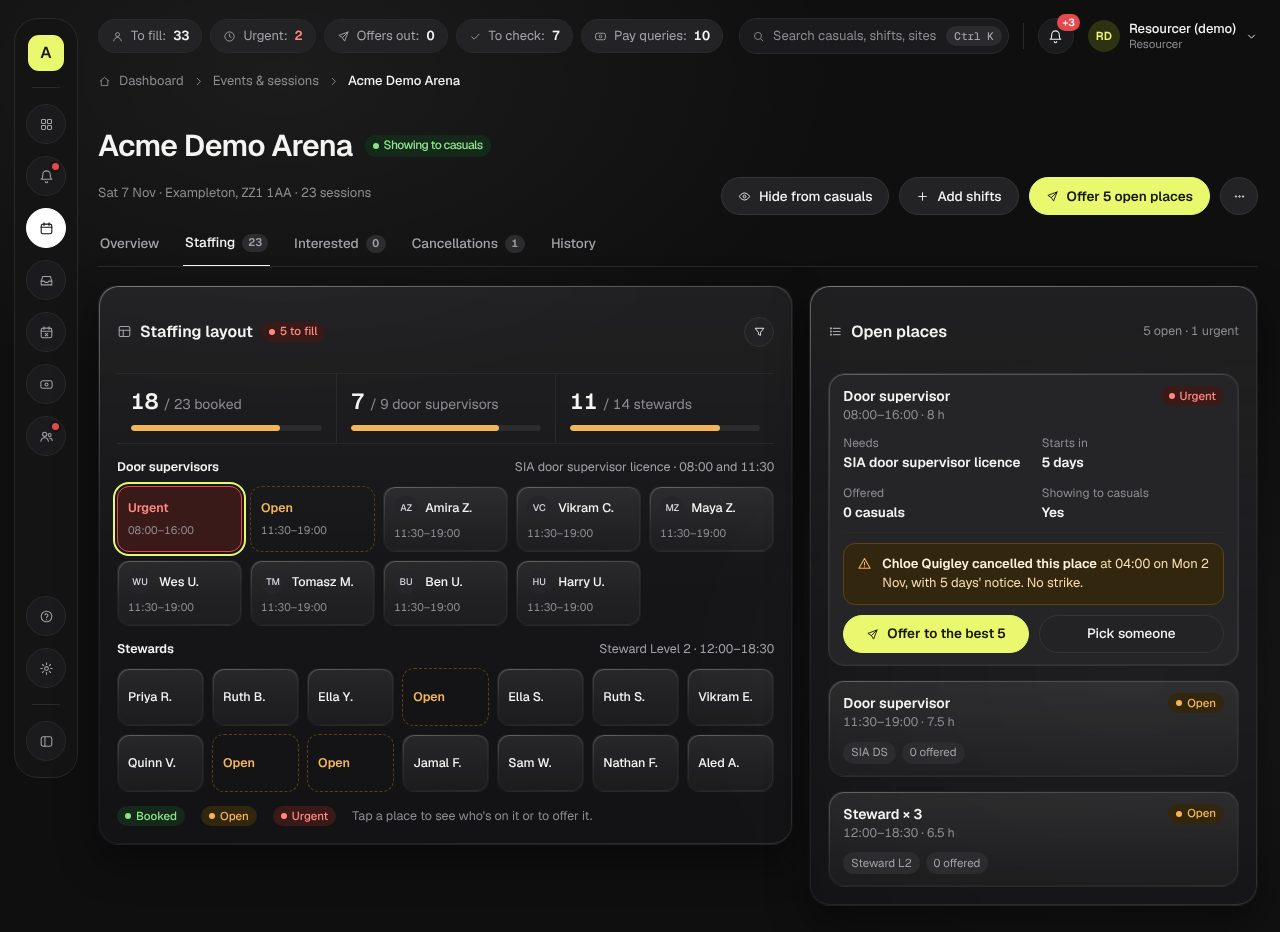
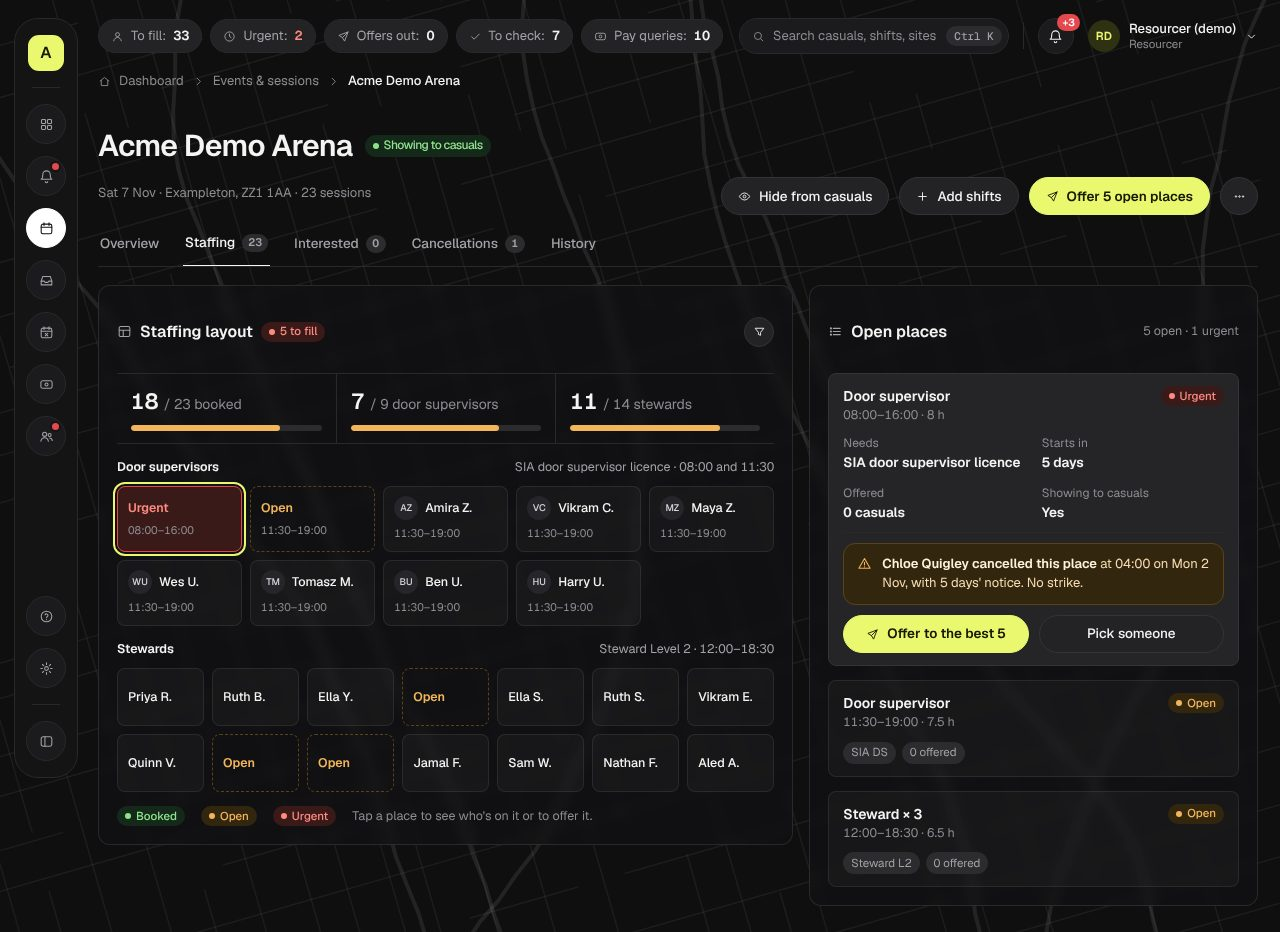
Round 8: glass that's translucent and sharp, not glossy
Dylan: "the use of highlights is making it seem tackier by glass i mean
translucent at the moment its reading thick and bubbly but by glass i mean
translucent and sharp". The gloss comes out (no bright corner edge, sheen,
inner light or resting shadow). Panels and cards are see-through over a
faint street map drawn behind every page, with a light blur, one even 1px
hairline and tighter corners (12px panels, 8px cards); solid again under
"reduce transparency". Pictures re-rendered, both mock-up pages
republished, the words updated. Docs and mock-ups only.

Claude-Session: https://claude.ai/code/session_01V8xx5DqVfkh7YuuDFiAuJu

Changed region(s): [[0.8125, 0.7157, 0.9062, 0.7468]]

diff --git a/docs/mockups/round-8/round-8.html b/docs/mockups/round-8/round-8.html
@@ -253,29 +253,25 @@ td:first-child { font-weight: 600; white-space: nowrap; }
 @container (min-width: 601px) { .f8 .only-phone { display: none !important; } }
 .f8 .back { color: var(--muted); font-size: 13px; display: flex; align-items: center; gap: 4px; }
 
-/* Dark glass on the sections and the cards inside them (Dylan, 2026-11-02: "can we make the sections
-   these bits ... a bit more glass looking"). Glass on a dark ground reads through three things: a
-   bright edge where light catches the top corner, a soft sheen from top to bottom, and something
-   behind it to blur. All neutral: no colour wash. */
-.f8 { background-color: var(--g0); background-image: radial-gradient(900px 520px at 22% 8%, rgb(255 255 255 / 0.055), transparent 62%), radial-gradient(760px 560px at 88% 72%, rgb(255 255 255 / 0.04), transparent 60%); }
-.f8 .panel, .f8 .kpis, .f8 .sheet:not(.side) { position: relative; }
-.f8 .panel, .f8 .kpis, .f8 .sheet { border-color: transparent; background-color: transparent; background-image: linear-gradient(180deg, rgb(255 255 255 / 0.075), rgb(255 255 255 / 0.028) 55%, rgb(255 255 255 / 0.02)); -webkit-backdrop-filter: blur(24px) saturate(1.6); backdrop-filter: blur(24px) saturate(1.6); box-shadow: inset 0 1px 0 rgb(255 255 255 / 0.14), 0 16px 40px rgb(0 0 0 / 0.42); }
-.f8 .sheet.side { background-color: rgb(24 24 27 / 0.72); }
-.f8 .card { border-color: transparent; background-color: rgb(28 28 31 / 0.55); background-image: linear-gradient(180deg, rgb(255 255 255 / 0.09), rgb(255 255 255 / 0.02) 60%); -webkit-backdrop-filter: blur(16px) saturate(1.6); backdrop-filter: blur(16px) saturate(1.6); box-shadow: inset 0 1px 0 rgb(255 255 255 / 0.16), 0 18px 50px rgb(0 0 0 / 0.5); }
-.f8 .li:not(.hot), .f8 .tile, .f8 .slot:not(.open):not(.urg), .f8 .oc, .f8 .setrow, .f8 .pick:not(.on) { position: relative; border-color: transparent; background-color: transparent; background-image: linear-gradient(180deg, rgb(255 255 255 / 0.085), rgb(255 255 255 / 0.035)); box-shadow: inset 0 1px 0 rgb(255 255 255 / 0.1); }
-.f8 .panel::before, .f8 .kpis::before, .f8 .sheet::before, .f8 .card::before,
-.f8 .li:not(.hot)::before, .f8 .tile::before, .f8 .slot:not(.open):not(.urg)::before, .f8 .oc::before, .f8 .setrow::before, .f8 .pick:not(.on)::before {
-  content: ""; position: absolute; inset: 0; border-radius: inherit; padding: 1px; pointer-events: none;
-  background: linear-gradient(160deg, rgb(255 255 255 / 0.32), rgb(255 255 255 / 0.08) 28%, rgb(255 255 255 / 0.03) 62%, rgb(255 255 255 / 0.12));
-  -webkit-mask: linear-gradient(#000 0 0) content-box, linear-gradient(#000 0 0); -webkit-mask-composite: xor; mask: linear-gradient(#000 0 0) content-box exclude, linear-gradient(#000 0 0);
-}
-.f8 .li:not(.hot)::before, .f8 .tile::before, .f8 .slot:not(.open):not(.urg)::before, .f8 .oc::before, .f8 .setrow::before, .f8 .pick:not(.on)::before { background: linear-gradient(160deg, rgb(255 255 255 / 0.2), rgb(255 255 255 / 0.05) 35%, rgb(255 255 255 / 0.03) 70%, rgb(255 255 255 / 0.08)); }
-.f8 .dt { box-shadow: inset 0 1px 0 rgb(255 255 255 / 0.08); }
+/* Glass, translucent and sharp (Dylan, 2026-11-02: "by glass i mean translucent and sharp", after the
+   first try read "thick and bubbly"). A see-through fill and a real blur over a faint street map that
+   runs behind the whole page; one even 1px hairline; tighter corners; no gloss, sheen, inner light or
+   resting shadow. Only what floats (the map's session card, panels that slide in) keeps a shadow. */
+.f8 { background-color: var(--g0); background-image: none; }
+.f8 > canvas.backdrop { position: absolute; inset: 0; width: 100%; height: 100%; z-index: 0; pointer-events: none; }
+.f8 > :not(canvas) { position: relative; z-index: 1; }
+.f8 .panel, .f8 .kpis, .f8 .sheet { border: 1px solid rgb(255 255 255 / 0.1); border-radius: 12px; background: rgb(22 22 24 / 0.28); -webkit-backdrop-filter: blur(6px) saturate(1.15); backdrop-filter: blur(6px) saturate(1.15); box-shadow: none; }
+.f8 .sheet.side { background: rgb(18 18 20 / 0.72); border-radius: 12px; box-shadow: -24px 0 60px rgb(0 0 0 / 0.5); }
+.f8 .card { border: 1px solid rgb(255 255 255 / 0.12); border-radius: 12px; background: rgb(18 18 20 / 0.5); -webkit-backdrop-filter: blur(8px) saturate(1.15); backdrop-filter: blur(8px) saturate(1.15); box-shadow: 0 18px 50px rgb(0 0 0 / 0.5); }
+.f8 .li:not(.hot), .f8 .tile, .f8 .slot:not(.open):not(.urg), .f8 .oc, .f8 .setrow, .f8 .pick:not(.on) { border: 1px solid rgb(255 255 255 / 0.08); border-radius: 8px; background: rgb(255 255 255 / 0.03); box-shadow: none; }
+.f8 .li.hot { border-radius: 8px; }
+.f8 .slot.open, .f8 .slot.urg, .f8 .pick.on { border-radius: 8px; }
+.f8 .map { border-radius: 12px; border-color: rgb(255 255 255 / 0.1); }
+.f8 .dt { box-shadow: none; border-radius: 8px; }
 @media (prefers-reduced-transparency: reduce) {
-  .f8 { background-image: none; }
-  .f8 .panel, .f8 .kpis, .f8 .sheet, .f8 .card { -webkit-backdrop-filter: none; backdrop-filter: none; background: #1b1b1d; border-color: var(--edge); }
-  .f8 .li:not(.hot), .f8 .tile, .f8 .slot:not(.open):not(.urg), .f8 .oc, .f8 .setrow, .f8 .pick:not(.on) { background: #232325; border-color: var(--edge); }
-  .f8 .panel::before, .f8 .kpis::before, .f8 .sheet::before, .f8 .card::before, .f8 .li::before, .f8 .tile::before, .f8 .slot::before, .f8 .oc::before, .f8 .setrow::before, .f8 .pick::before { display: none; }
+  .f8 > canvas.backdrop { display: none; }
+  .f8 .panel, .f8 .kpis, .f8 .sheet, .f8 .card { -webkit-backdrop-filter: none; backdrop-filter: none; background: #1b1b1d; }
+  .f8 .li:not(.hot), .f8 .tile, .f8 .slot:not(.open):not(.urg), .f8 .oc, .f8 .setrow, .f8 .pick:not(.on) { background: #232325; }
 }
 </style>
 
@@ -303,7 +299,7 @@ td:first-child { font-weight: 600; white-space: nowrap; }
         <thead><tr><th>What</th><th>Haulix</th><th>ShiftDesk now</th><th>Round 8</th></tr></thead>
         <tbody>
           <tr><td>Ground</td><td>Near-black, neutral, flat (#141414)</td><td class="">Pastel wash in light; blue, purple and teal glows in dark</td><td>Neutral charcoal, flat. No glows, no wash</td></tr>
-          <tr><td>Surfaces</td><td>Panels one shade lighter, a fine edge, no blur</td><td>Frosted glass everywhere: blur, lit rims, drop shadows</td><td>Dark glass on panels and the cards in them: a see-through fill, a soft blur, light on the top edge. No colour wash. Deeper shadows only on what floats</td></tr>
+          <tr><td>Surfaces</td><td>Panels one shade lighter, a fine edge, no blur</td><td>Frosted glass everywhere: blur, lit rims, drop shadows</td><td>Translucent, sharp glass on panels and the cards in them: see-through over a faint street map, a light blur, one 1px hairline, tight corners. No gloss or colour wash; shadows only on what floats</td></tr>
           <tr><td>Colour</td><td>One pale lime: the main button, switches, the logo, the selected truck</td><td>Firm blue, link blue, coloured leaf icons, red, amber and green all at once</td><td>One hi-vis yellow, from the stewards' vests: the main button, switches, what's selected. Red, amber, green only on status</td></tr>
           <tr><td>The big picture</td><td>A live map of the fleet; the truck's cargo slot by slot</td><td>A bar chart of places to fill</td><td>A map of your venues with the places to fill at each; an event's staffing laid out place by place</td></tr>
           <tr><td>Detail card</td><td>ID, status, route progress, gauges, a warning, two actions</td><td>Date tile, two number tiles, a warning, two buttons</td><td>The same shape for a session: time, booked bar, gauge, who can take it, a warning, Offer</td></tr>
@@ -341,7 +337,7 @@ td:first-child { font-weight: 600; white-space: nowrap; }
   <section aria-labelledby="h-dec">
     <h2 id="h-dec">Your decisions</h2>
     <div class="dec read">
-      <div class="dq"><h3>1. Move away from glass?</h3><p>You approved round 7 (Liquid Glass) on 26 Oct. Round 8 replaces its pastel wash and frosted white glass in the office with Haulix's charcoal, keeping dark glass on the panels and cards (your ask on 2 Nov).</p><p class="rec"><b>Recommended:</b> yes for the office. The casual app keeps its look for now: it's used outdoors on phones, where light and clear works better.</p></div>
+      <div class="dq"><h3>1. Move away from glass?</h3><p>You approved round 7 (Liquid Glass) on 26 Oct. Round 8 replaces its pastel wash and frosted white glass in the office with Haulix's charcoal, keeping translucent, sharp glass on the panels and cards (your ask on 2 Nov).</p><p class="rec"><b>Recommended:</b> yes for the office. The casual app keeps its look for now: it's used outdoors on phones, where light and clear works better.</p></div>
       <div class="dq"><h3>2. Dark by default?</h3><p>Haulix is dark only.</p><p class="rec"><b>Recommended:</b> dark by default for the office, with a light version built on the same flat rules for anyone who prefers it.</p></div>
       <div class="dq"><h3>3. The accent: hi-vis yellow or the firm's own colour?</h3><p>Haulix uses one pale lime. Hi-vis yellow does the same job and comes from event security itself.</p><p class="rec"><b>Recommended:</b> hi-vis in the office; the firm's colour stays on its mark and in the casual app.</p></div>
       <div class="dq"><h3>4. The venue map needs a map service</h3><p>Venues already have postcodes, and postcodes.io already turns them into coordinates. Drawing streets needs map tiles.</p><p class="rec"><b>Recommended:</b> MapLibre (open source) with a dark style from a UK or EU tile host, or a self-hosted map file. A new supplier, so your call; without it, the dashboard falls back to the cover grid by venue and day.</p></div>
@@ -540,6 +536,24 @@ td:first-child { font-weight: 600; white-space: nowrap; }
     c.strokeStyle = '#2a2a2d'; c.lineWidth = 6; c.beginPath(); c.ellipse(w * 0.6, h * 0.5, w * 0.36, h * 0.46, -0.1, 0, Math.PI * 2); c.stroke();
   }
 
+
+  // The faint streets behind every page: the same drawn town as the venue map, a few lines only, so the
+  // glass has something to see through. Drawn, not a real place.
+  function drawBackdrop(frame) {
+    var cv = document.createElement('canvas'); cv.className = 'backdrop'; cv.setAttribute('aria-hidden', 'true');
+    frame.insertBefore(cv, frame.firstChild);
+    var w = frame.offsetWidth, h = frame.offsetHeight, dpr = Math.min(2, window.devicePixelRatio || 1);
+    cv.width = w * dpr; cv.height = h * dpr; var c = cv.getContext('2d'); c.scale(dpr, dpr);
+    var s = 11; function rnd() { s = (s * 16807) % 2147483647; return (s - 1) / 2147483646; }
+    c.save(); c.translate(w / 2, h / 2); c.rotate(-0.28);
+    var R = Math.max(w, h), step = 42;
+    c.strokeStyle = 'rgba(255,255,255,0.06)'; c.lineWidth = 1.5;
+    for (var x = -R; x < R; x += step * (0.8 + rnd() * 0.7)) { c.beginPath(); var y = -R; c.moveTo(x, y); while (y < R) { y += step * (1 + rnd() * 3); if (rnd() < 0.2) c.moveTo(x, y); else c.lineTo(x, y); } c.stroke(); }
+    for (var yy = -R; yy < R; yy += step * (0.8 + rnd() * 0.7)) { c.beginPath(); var xx = -R; c.moveTo(xx, yy); while (xx < R) { xx += step * (1 + rnd() * 3); if (rnd() < 0.2) c.moveTo(xx, yy); else c.lineTo(xx, yy); } c.stroke(); }
+    c.restore();
+    c.strokeStyle = 'rgba(255,255,255,0.085)'; c.lineWidth = 4; c.lineCap = 'round'; c.lineJoin = 'round';
+    for (var k = 0; k < 6; k++) { c.beginPath(); var px = rnd() * w, py = k % 2 ? -10 : h + 10, ang = (k % 2 ? 1 : -1) * (Math.PI / 2) + (rnd() - 0.5) * 0.9; c.moveTo(px, py); for (var n = 0; n < 60; n++) { ang += (rnd() - 0.5) * 0.3; px += Math.cos(ang) * 30; py += Math.sin(ang) * 30; c.lineTo(px, py); } c.stroke(); }
+  }
   // ---------- stages ----------
   function setup(id, render) {
     var el = document.getElementById(id), stage = el.querySelector('.stage'), scaler = el.querySelector('.scaler');
@@ -548,6 +562,7 @@ td:first-child { font-weight: 600; white-space: nowrap; }
       el.querySelectorAll('.seg button').forEach(function (b) { b.setAttribute('aria-pressed', b.dataset.size === size ? 'true' : 'false'); });
       fit();
       scaler.querySelectorAll('canvas').forEach(drawMap);
+      drawBackdrop(scaler.querySelector('.f8'));
     }
     function fit() {
       var f = scaler.firstElementChild; if (!f) return;

diff --git a/docs/mockups/round-8/screens.html b/docs/mockups/round-8/screens.html
@@ -237,29 +237,25 @@ body { margin: 0; background: #0c0c0d; }
 }
 
 
-/* Dark glass on the sections and the cards inside them (Dylan, 2026-11-02: "can we make the sections
-   these bits ... a bit more glass looking"). Glass on a dark ground reads through three things: a
-   bright edge where light catches the top corner, a soft sheen from top to bottom, and something
-   behind it to blur. All neutral: no colour wash. */
-.f8 { background-color: var(--g0); background-image: radial-gradient(900px 520px at 22% 8%, rgb(255 255 255 / 0.055), transparent 62%), radial-gradient(760px 560px at 88% 72%, rgb(255 255 255 / 0.04), transparent 60%); }
-.f8 .panel, .f8 .kpis, .f8 .sheet:not(.side) { position: relative; }
-.f8 .panel, .f8 .kpis, .f8 .sheet { border-color: transparent; background-color: transparent; background-image: linear-gradient(180deg, rgb(255 255 255 / 0.075), rgb(255 255 255 / 0.028) 55%, rgb(255 255 255 / 0.02)); -webkit-backdrop-filter: blur(24px) saturate(1.6); backdrop-filter: blur(24px) saturate(1.6); box-shadow: inset 0 1px 0 rgb(255 255 255 / 0.14), 0 16px 40px rgb(0 0 0 / 0.42); }
-.f8 .sheet.side { background-color: rgb(24 24 27 / 0.72); }
-.f8 .card { border-color: transparent; background-color: rgb(28 28 31 / 0.55); background-image: linear-gradient(180deg, rgb(255 255 255 / 0.09), rgb(255 255 255 / 0.02) 60%); -webkit-backdrop-filter: blur(16px) saturate(1.6); backdrop-filter: blur(16px) saturate(1.6); box-shadow: inset 0 1px 0 rgb(255 255 255 / 0.16), 0 18px 50px rgb(0 0 0 / 0.5); }
-.f8 .li:not(.hot), .f8 .tile, .f8 .slot:not(.open):not(.urg), .f8 .oc, .f8 .setrow, .f8 .pick:not(.on) { position: relative; border-color: transparent; background-color: transparent; background-image: linear-gradient(180deg, rgb(255 255 255 / 0.085), rgb(255 255 255 / 0.035)); box-shadow: inset 0 1px 0 rgb(255 255 255 / 0.1); }
-.f8 .panel::before, .f8 .kpis::before, .f8 .sheet::before, .f8 .card::before,
-.f8 .li:not(.hot)::before, .f8 .tile::before, .f8 .slot:not(.open):not(.urg)::before, .f8 .oc::before, .f8 .setrow::before, .f8 .pick:not(.on)::before {
-  content: ""; position: absolute; inset: 0; border-radius: inherit; padding: 1px; pointer-events: none;
-  background: linear-gradient(160deg, rgb(255 255 255 / 0.32), rgb(255 255 255 / 0.08) 28%, rgb(255 255 255 / 0.03) 62%, rgb(255 255 255 / 0.12));
-  -webkit-mask: linear-gradient(#000 0 0) content-box, linear-gradient(#000 0 0); -webkit-mask-composite: xor; mask: linear-gradient(#000 0 0) content-box exclude, linear-gradient(#000 0 0);
-}
-.f8 .li:not(.hot)::before, .f8 .tile::before, .f8 .slot:not(.open):not(.urg)::before, .f8 .oc::before, .f8 .setrow::before, .f8 .pick:not(.on)::before { background: linear-gradient(160deg, rgb(255 255 255 / 0.2), rgb(255 255 255 / 0.05) 35%, rgb(255 255 255 / 0.03) 70%, rgb(255 255 255 / 0.08)); }
-.f8 .dt { box-shadow: inset 0 1px 0 rgb(255 255 255 / 0.08); }
+/* Glass, translucent and sharp (Dylan, 2026-11-02: "by glass i mean translucent and sharp", after the
+   first try read "thick and bubbly"). A see-through fill and a real blur over a faint street map that
+   runs behind the whole page; one even 1px hairline; tighter corners; no gloss, sheen, inner light or
+   resting shadow. Only what floats (the map's session card, panels that slide in) keeps a shadow. */
+.f8 { background-color: var(--g0); background-image: none; }
+.f8 > canvas.backdrop { position: absolute; inset: 0; width: 100%; height: 100%; z-index: 0; pointer-events: none; }
+.f8 > :not(canvas) { position: relative; z-index: 1; }
+.f8 .panel, .f8 .kpis, .f8 .sheet { border: 1px solid rgb(255 255 255 / 0.1); border-radius: 12px; background: rgb(22 22 24 / 0.28); -webkit-backdrop-filter: blur(6px) saturate(1.15); backdrop-filter: blur(6px) saturate(1.15); box-shadow: none; }
+.f8 .sheet.side { background: rgb(18 18 20 / 0.72); border-radius: 12px; box-shadow: -24px 0 60px rgb(0 0 0 / 0.5); }
+.f8 .card { border: 1px solid rgb(255 255 255 / 0.12); border-radius: 12px; background: rgb(18 18 20 / 0.5); -webkit-backdrop-filter: blur(8px) saturate(1.15); backdrop-filter: blur(8px) saturate(1.15); box-shadow: 0 18px 50px rgb(0 0 0 / 0.5); }
+.f8 .li:not(.hot), .f8 .tile, .f8 .slot:not(.open):not(.urg), .f8 .oc, .f8 .setrow, .f8 .pick:not(.on) { border: 1px solid rgb(255 255 255 / 0.08); border-radius: 8px; background: rgb(255 255 255 / 0.03); box-shadow: none; }
+.f8 .li.hot { border-radius: 8px; }
+.f8 .slot.open, .f8 .slot.urg, .f8 .pick.on { border-radius: 8px; }
+.f8 .map { border-radius: 12px; border-color: rgb(255 255 255 / 0.1); }
+.f8 .dt { box-shadow: none; border-radius: 8px; }
 @media (prefers-reduced-transparency: reduce) {
-  .f8 { background-image: none; }
-  .f8 .panel, .f8 .kpis, .f8 .sheet, .f8 .card { -webkit-backdrop-filter: none; backdrop-filter: none; background: #1b1b1d; border-color: var(--edge); }
-  .f8 .li:not(.hot), .f8 .tile, .f8 .slot:not(.open):not(.urg), .f8 .oc, .f8 .setrow, .f8 .pick:not(.on) { background: #232325; border-color: var(--edge); }
-  .f8 .panel::before, .f8 .kpis::before, .f8 .sheet::before, .f8 .card::before, .f8 .li::before, .f8 .tile::before, .f8 .slot::before, .f8 .oc::before, .f8 .setrow::before, .f8 .pick::before { display: none; }
+  .f8 > canvas.backdrop { display: none; }
+  .f8 .panel, .f8 .kpis, .f8 .sheet, .f8 .card { -webkit-backdrop-filter: none; backdrop-filter: none; background: #1b1b1d; }
+  .f8 .li:not(.hot), .f8 .tile, .f8 .slot:not(.open):not(.urg), .f8 .oc, .f8 .setrow, .f8 .pick:not(.on) { background: #232325; }
 }
 </style></head><body><div id="out"></div><script>
 (function () {
@@ -574,11 +570,30 @@ body { margin: 0; background: #0c0c0d; }
     return '<div style="position:relative">' + dashboard(size) + '<div class="dim"></div>' + panel.replace('class="sheet"', 'class="sheet side"') + '</div>';
   }
 
+
+  // The faint streets behind every page: the same drawn town as the venue map, a few lines only, so the
+  // glass has something to see through. Drawn, not a real place.
+  function drawBackdrop(frame) {
+    var cv = document.createElement('canvas'); cv.className = 'backdrop'; cv.setAttribute('aria-hidden', 'true');
+    frame.insertBefore(cv, frame.firstChild);
+    var w = frame.offsetWidth, h = frame.offsetHeight, dpr = Math.min(2, window.devicePixelRatio || 1);
+    cv.width = w * dpr; cv.height = h * dpr; var c = cv.getContext('2d'); c.scale(dpr, dpr);
+    var s = 11; function rnd() { s = (s * 16807) % 2147483647; return (s - 1) / 2147483646; }
+    c.save(); c.translate(w / 2, h / 2); c.rotate(-0.28);
+    var R = Math.max(w, h), step = 42;
+    c.strokeStyle = 'rgba(255,255,255,0.06)'; c.lineWidth = 1.5;
+    for (var x = -R; x < R; x += step * (0.8 + rnd() * 0.7)) { c.beginPath(); var y = -R; c.moveTo(x, y); while (y < R) { y += step * (1 + rnd() * 3); if (rnd() < 0.2) c.moveTo(x, y); else c.lineTo(x, y); } c.stroke(); }
+    for (var yy = -R; yy < R; yy += step * (0.8 + rnd() * 0.7)) { c.beginPath(); var xx = -R; c.moveTo(xx, yy); while (xx < R) { xx += step * (1 + rnd() * 3); if (rnd() < 0.2) c.moveTo(xx, yy); else c.lineTo(xx, yy); } c.stroke(); }
+    c.restore();
+    c.strokeStyle = 'rgba(255,255,255,0.085)'; c.lineWidth = 4; c.lineCap = 'round'; c.lineJoin = 'round';
+    for (var k = 0; k < 6; k++) { c.beginPath(); var px = rnd() * w, py = k % 2 ? -10 : h + 10, ang = (k % 2 ? 1 : -1) * (Math.PI / 2) + (rnd() - 0.5) * 0.9; c.moveTo(px, py); for (var n = 0; n < 60; n++) { ang += (rnd() - 0.5) * 0.3; px += Math.cos(ang) * 30; py += Math.sin(ang) * 30; c.lineTo(px, py); } c.stroke(); }
+  }
   var SCREENS = { dashboard: dashboard, event: eventPage, casuals: casuals, cancellations: cancellations, session: session, updates: updates, offer: offer, customise: customise };
   var m = (location.hash || '').match(/^#(\w+)-(laptop|phone)$/);
   var name = m ? m[1] : 'dashboard', size = m ? m[2] : 'laptop';
   document.getElementById('out').innerHTML = '<div class="f8 ' + size + '">' + SCREENS[name](size) + '</div>';
   document.querySelectorAll('#out canvas').forEach(drawMap);
+  drawBackdrop(document.querySelector('#out .f8'));
   window.SCREEN_READY = true;
 })();
 </script></body></html>

diff --git a/docs/mockups/round-8/spec.html b/docs/mockups/round-8/spec.html
@@ -144,10 +144,10 @@ textarea.note::placeholder { color: #b89356; }
   var SPEC = [
     { id: 'look', title: 'The look, everywhere in the office', route: 'every office page', purpose: 'The system every screen below is built on. The casual app keeps its look.', shots: null, swatches: true, items: [
       ['sys-1', 'Dark by default in the office (decision 7). A light version on the same flat rules for anyone who prefers it; the light or dark button stays in the top bar.'],
-      ['sys-2', 'Neutral charcoal (page #141415) with dark glass on the panels and the cards inside them: a see-through fill, a soft blur of what\'s behind, light catching the top edge and a faint sheen (your ask on 2 Nov). No pastel wash and no coloured glow (decision 6).'],
+      ['sys-2', 'Glass that\'s translucent and sharp (your ask on 2 Nov): panels and the cards inside them are see-through over a faint street map that runs behind every page, with a light blur, one even 1px hairline edge and tighter corners (12px panels, 8px cards). No gloss, sheen or highlight, no pastel wash, no coloured glow (decision 6).'],
       ['sys-3', 'One accent, hi-vis yellow #e9f86f, on the main button, the switches and whatever is selected (decision 8). At most one hi-vis button per screen. The firm\'s own colour stays on its mark and in the casual app.'],
       ['sys-4', 'One status code on every page: Urgent red, Open amber, Booked green, Offered blue, Hidden grey. The same pill shape everywhere.'],
-      ['sys-5', 'Deeper shadows only on what floats: the map\'s session card, menus and panels that slide in. With "reduce transparency" switched on, the glass turns solid.'],
+      ['sys-5', 'No shadows on panels or cards at rest; only what floats (the map\'s session card, menus, panels that slide in) has one. With "reduce transparency" switched on, the glass turns solid and the street map goes.'],
       ['sys-6', 'Geist stays for all words and figures; page titles 30px; figures line up (tabular); references and IDs in Geist Mono.'],
       ['sys-7', 'The menu rail: dark circles, the page you\'re on a solid white circle, a red dot where something needs you. The firm\'s mark at the top in hi-vis.'],
       ['sys-8', 'The top bar: the counts as separate chips (To fill, Urgent, Offers out, To check, Pay queries), each opening where it\'s worked; search with Ctrl K; the bell with new updates; you and your role.'],
@@ -259,7 +259,7 @@ textarea.note::placeholder { color: #b89356; }
       '<figure><figcaption><b>After</b><span>round 8</span></figcaption><div class="shot"><img src="' + a + '" alt="' + esc(sec.title) + ' after the change" loading="lazy"></div></figure></div>';
   }
   function swatchHtml() {
-    var s = [['#141415', 'Page'], ['#1b1b1d', 'Panel (glass)'], ['#232325', 'Card (glass)'], ['#e9f86f', 'Hi-vis accent'], ['#ff8a80', 'Urgent'], ['#f2b55a', 'Open'], ['#8fe28c', 'Booked'], ['#8ab4ff', 'Offered'], ['#8f8f94', 'Hidden']];
+    var s = [['#141415', 'Page'], ['#1d1d1f', 'Panel (see-through)'], ['#252527', 'Card (see-through)'], ['#e9f86f', 'Hi-vis accent'], ['#ff8a80', 'Urgent'], ['#f2b55a', 'Open'], ['#8fe28c', 'Booked'], ['#8ab4ff', 'Offered'], ['#8f8f94', 'Hidden']];
     return '<div class="swatches">' + s.map(function (x) { return '<span class="sw"><i style="background:' + x[0] + '"></i>' + x[1] + ' <span style="font-family:var(--mono);font-size:11px">' + x[0] + '</span></span>'; }).join('') + '</div>';
   }
   function itemHtml(it) {

diff --git a/docs/plan/decisions-waiting.md b/docs/plan/decisions-waiting.md
@@ -311,7 +311,7 @@ fix (the offer-wave timing tests failing from 09:00 that day) into the review's 
 | 3 | How reliability is worked out, who sees it, and whether it changes who's offered first | Not worked out; offers ranked by hours this week, then last offered | Last 90 days: worked ÷ (worked + no-shows + cancellations under 48 hours), counts beside it; "Regular" = worked in 6 of the last 8 weeks; the office and the casual both see it; offer order unchanged until a month of pilot data | P9 A |
 | 4 | Which ways an offer can reach a casual | Push, then WhatsApp or text, then email (the code); WhatsApp on screen and the default | App notification, then a text through the firm's Webex account, then email; email a casual's choice; WhatsApp only through a firm's own WhatsApp Business number, later, if wanted | P9 H; Phase 15.1 |
 | 5 | Office alerts: what, to whom, how | Nothing on a cancellation; an email for a place still free 3 h before start | A live feed and a pop-up for each cancellation (on); a phone or desktop notification for cancellations under 48 hours and places open 6 h before start; each resourcer chooses, for their contracts only | P9 C |
-| 6 | Move the office away from glass (round 7, approved 2026-10-26) to round 8's flat look after Haulix (https://claude.ai/artifact/2cHizkZcrYG7C8U8C1H3cF) | Round 7: glass on a pastel wash | Yes, the office only; the casual app keeps its look (used outdoors on phones). **Amended** (Dylan, 2026-11-02, "can we make the sections ... a bit more glass looking"): the panels and their cards are dark glass on the charcoal; still no pastel wash or coloured glow | P10 |
+| 6 | Move the office away from glass (round 7, approved 2026-10-26) to round 8's flat look after Haulix (https://claude.ai/artifact/2cHizkZcrYG7C8U8C1H3cF) | Round 7: glass on a pastel wash | Yes, the office only; the casual app keeps its look (used outdoors on phones). **Amended** (Dylan, 2026-11-02, "can we make the sections ... a bit more glass looking"): the panels and their cards are glass on the charcoal, "translucent and sharp" (see-through over a faint street map, one hairline edge, tight corners, no gloss); still no pastel wash or coloured glow | P10 |
 | 7 | Dark by default in the office | Follows the device; light unless set | Dark by default, with a light version on the same flat rules | P10 |
 | 8 | The office's one accent | Firm colour on the main button, plus a separate app blue | Hi-vis yellow in the office; the firm's colour stays on its mark and in the casual app | P10 |
 | 9 | A map service for the venue map | None | MapLibre (open source) with a dark style from a UK or EU tile host, or a self-hosted map file; without one, a cover grid by venue and day | P10 |

diff --git a/docs/mockups/round-8/README.md b/docs/mockups/round-8/README.md
@@ -35,9 +35,10 @@ shows a note where those two frames go).
 
 The office only (every page, label and action stays; the casual app keeps its look):
 
-- **The system:** dark by default, neutral charcoal with dark glass on the panels and the cards in
-  them (a see-through fill, a soft blur, light on the top edge and a faint sheen: Dylan, 2026-11-02,
-  "can we make the sections ... a bit more glass looking"); deeper shadows only on what floats; one accent, hi-vis yellow (`#e9f86f`, from the stewards' vests) on the main
+- **The system:** dark by default, neutral charcoal with translucent, sharp glass on the panels and
+  the cards in them: see-through over a faint street map behind every page, a light blur, one 1px
+  hairline, 12px and 8px corners, no gloss or sheen (Dylan, 2026-11-02: "a bit more glass looking",
+  then "by glass i mean translucent and sharp"); shadows only on what floats; one accent, hi-vis yellow (`#e9f86f`, from the stewards' vests) on the main
   button, switches and what's selected; status in one code (Urgent red, Open amber, Booked green,
   Offered blue, Hidden grey); Geist kept, references in Geist Mono; no glass, no wash.
 - **The dashboard:** a map of the firm's venues, each pin showing its places to fill (33 across 7

diff --git a/PLAN.md b/PLAN.md
@@ -1060,8 +1060,8 @@ say. Each task: its words in `docs/screens.md` first, tests, the `guardrails-rev
 touches schema, tenancy, messaging or rules, then `/close-task`. The casual app keeps round 7's look.
 
 - [ ] Round 8's system and the office shell: dark by default with a light version on the same
-      rules, neutral charcoal with dark glass on panels and their cards (Dylan, 2026-11-02), no wash or
-      glow; one hi-vis accent; one status code; the rail and
+      rules, neutral charcoal with translucent, sharp glass on panels and their cards over a faint
+      street map (Dylan, 2026-11-02), no gloss, wash or glow; one hi-vis accent; one status code; the rail and
       top bar as in the spec (spec "The look"; UI) (26.1)
 - [ ] The dashboard: the venue map (MapLibre with a UK or EU tile host; decision 9) with places to fill
       per venue, the session card, To offer, Updates in place of Offered and While you were out, Who

diff --git a/docs/logs/work-2026-11.md b/docs/logs/work-2026-11.md
@@ -104,3 +104,10 @@ map's session card the same glass over the map; with "reduce transparency" on, a
 Both mock-up pages are republished with the new pictures, and the words that said "no glass" (the
 change page's look items, round 8's table, the README, Phase 26.1, decision 6) now say dark glass.
 Docs and mock-ups only.
+
+Then Dylan: "the use of highlights is making it seem tackier by glass i mean translucent at the moment
+its reading thick and bubbly but by glass i mean translucent and sharp". The gloss came out: no
+bright corner edge, no sheen, no inner light, no resting shadow. Instead the panels and cards are
+see-through over a faint street map drawn behind every page (the venue map's town, a few lines), with
+a light blur (6px panels, 8px the map card), one even 1px hairline and tighter corners (12px panels,
+8px cards). The pictures, both pages and the words are updated again.
